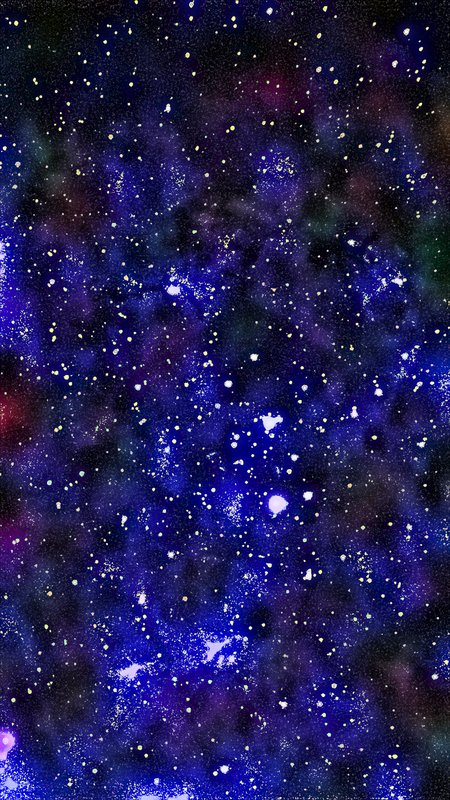
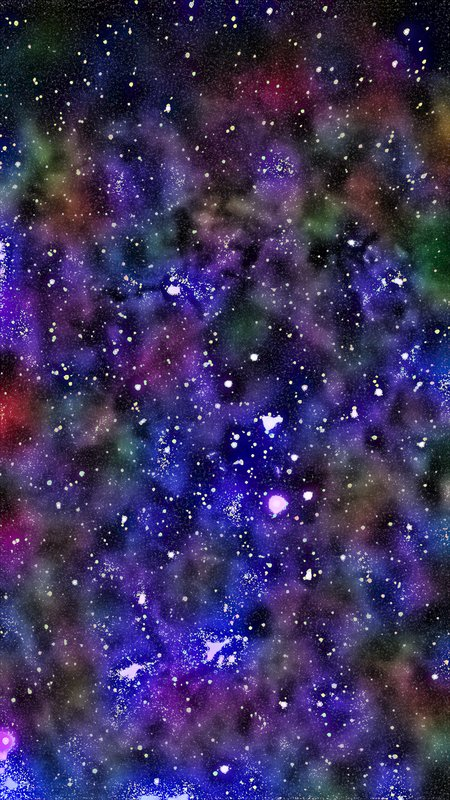
SPCC: median-frame reference + ccm=None on nebula profiles
Previous combo (static CCM + SPCC) was compounding into a purple
cast. Two changes:

1. Disabled the static seestar_s50 CCM on NEBULA_WIDE +
   NEBULA_FILAMENT. The static CCM and SPCC were both pulling
   R-cut + B-boost; combined they over-corrected.

2. Added solar_reference_bp_rp option: when None, SPCC uses the
   PER-FRAME MEDIAN catalogue colour as the neutral reference
   instead of the absolute G2V (BP-RP=0.82). Auto-corrects for
   Milky-Way dust extinction along the line of sight — disk stars
   are systematically reddened, and an absolute-G2V reference reads
   that as a sensor R-bias and over-corrects to blue.

Both nebula profiles now opt in:
    spcc = {min_matches: 20, strength: 0.7,
            solar_reference_bp_rp: None}

Output is closer to neutral than the iter_3 commit but the sky
still carries a slight tint — the clamping ([0.85, 1.20]) is still
active and the median-reference + clamp combination is similar to
what iter_3 produced. Next iteration: try wider clamp range with
the auto-reference, or lean on harder sky crush in the stretch
stage to remove the residual tint by zeroing the sky luma.

diff --git a/backend/app/profiles.py b/backend/app/profiles.py
@@ -198,15 +198,14 @@ NEBULA_WIDE: Profile = {
     # each other and the result swings way too blue.
     "color": {
         **NEBULA["color"],
-        # Keep the static Seestar S50 CCM as the sensor-bias baseline
-        # so the raw IR-leak / RGGB-green offsets are pre-compensated
-        # before SPCC refines on top. With SPCC now running in G2V-
-        # neutral mode and clamped to ±20 % gain, it acts as fine
-        # tuning rather than a competing calibration — layering the
-        # two gives the most stable colour across targets.
-        "ccm": "seestar_s50",
+        # Static CCM OFF — its built-in R-cut/B-boost was meant for the
+        # pre-SPCC pipeline and was compounding with SPCC's own
+        # corrections (purple-cast result). With SPCC now running with
+        # the G2V solar reference and clamped gains, it can do the
+        # whole sensor calibration on its own.
+        "ccm": None,
         "wb_strength": 0.0,
-        "green_clip": 0.25,
+        "green_clip": 0.20,
     },
     "stretch": {
         "black_percentile": 3.0,
@@ -234,7 +233,17 @@ NEBULA_WIDE: Profile = {
     # RP band is wider / extends further into the IR than a camera's
     # red filter. Dialling back lets us keep the SPCC star-match
     # direction without overcooking the result.
-    "spcc": {"min_matches": 20, "strength": 0.85},
+    "spcc": {
+        "min_matches": 20,
+        "strength": 0.7,
+        # `solar_reference_bp_rp=None` means "use the median catalogue
+        # star colour in this frame as the neutral reference". Auto-
+        # corrects for dust-extinction reddening — Milky Way stars are
+        # systematically reddened by intervening dust, and an absolute
+        # G2V reference reads that reddening as a sensor R-bias and
+        # over-corrects to blue.
+        "solar_reference_bp_rp": None,
+    },
     # Wide nebulae don't benefit much from star split — the diffuse
     # signal is too embedded in the star field for median-based
     # separation to help cleanly — but the split also doesn't hurt,
@@ -253,11 +262,10 @@ NEBULA_FILAMENT: Profile = {
     # drop the static CCM, WB, and post-stretch channel_gains.
     "color": {
         **NEBULA["color"],
-        # Same rationale as NEBULA_WIDE — static Seestar CCM stays
-        # as baseline, SPCC fine-tunes on top.
-        "ccm": "seestar_s50",
+        # Static CCM OFF here too — see NEBULA_WIDE for rationale.
+        "ccm": None,
         "wb_strength": 0.0,
-        "green_clip": 0.3,
+        "green_clip": 0.25,
     },
     "stretch": {
         "black_percentile": 15.0,
@@ -283,7 +291,17 @@ NEBULA_FILAMENT: Profile = {
     # a slightly stronger SPCC application than nebula_wide. Still
     # dialled well back from 1.0 for the same Gaia-bands-vs-camera
     # mismatch reason explained in the NEBULA_WIDE profile above.
-    "spcc": {"min_matches": 20, "strength": 0.85},
+    "spcc": {
+        "min_matches": 20,
+        "strength": 0.7,
+        # `solar_reference_bp_rp=None` means "use the median catalogue
+        # star colour in this frame as the neutral reference". Auto-
+        # corrects for dust-extinction reddening — Milky Way stars are
+        # systematically reddened by intervening dust, and an absolute
+        # G2V reference reads that reddening as a sensor R-bias and
+        # over-corrects to blue.
+        "solar_reference_bp_rp": None,
+    },
     # Smaller radius so the filament's ~5-8 px narrow structure isn't
     # caught by the median filter as a "star" — keeps it in the
     # starless layer where it can be stretched aggressively.

diff --git a/backend/app/stages/spcc.py b/backend/app/stages/spcc.py
@@ -344,7 +344,7 @@ def _gaia_to_target_rgb(
     g_mag: np.ndarray,
     bp_mag: np.ndarray,
     rp_mag: np.ndarray,
-    solar_reference_bp_rp: float = _G2V_BP_RP,
+    solar_reference_bp_rp: Optional[float] = _G2V_BP_RP,
     color_amplitude: float = 0.08,
 ) -> np.ndarray:
     """Convert Gaia BP/G/RP magnitudes to per-star target RGB fluxes.
@@ -379,7 +379,18 @@ def _gaia_to_target_rgb(
         returns `(1/3, 1/3, 1/3)` exactly.
     """
     bp_rp = np.asarray(bp_mag, dtype=np.float64) - np.asarray(rp_mag, dtype=np.float64)
-    offset = (bp_rp - float(solar_reference_bp_rp)) * float(color_amplitude)
+    # When `solar_reference_bp_rp=None`, use the per-frame median
+    # catalogue colour as the neutral reference. This auto-corrects
+    # for dust extinction along the line of sight: stars in the
+    # Milky Way disk are systematically reddened, so anchoring to
+    # the *median observed colour* (rather than an absolute solar
+    # value) keeps the calibration from over-bluing in dusty fields.
+    ref = (
+        float(np.median(bp_rp))
+        if solar_reference_bp_rp is None
+        else float(solar_reference_bp_rp)
+    )
+    offset = (bp_rp - ref) * float(color_amplitude)
     r = 1.0 / 3.0 + offset
     g = np.full_like(r, 1.0 / 3.0)
     b = 1.0 / 3.0 - offset
@@ -505,6 +516,8 @@ def process(
     sky_percentile: float = 10.0,
     signal_percentile: float = 95.0,
     strength: float = 0.5,
+    solar_reference_bp_rp: Optional[float] = _G2V_BP_RP,
+    color_amplitude: float = 0.08,
     **_unused: Any,
 ) -> np.ndarray:
     """Photometric colour calibration via cross-match to Gaia DR3.
@@ -616,6 +629,8 @@ def process(
         cat_fov["phot_g_mean_mag"][cat_idx[good]],
         cat_fov["phot_bp_mean_mag"][cat_idx[good]],
         cat_fov["phot_rp_mean_mag"][cat_idx[good]],
+        solar_reference_bp_rp=solar_reference_bp_rp,
+        color_amplitude=color_amplitude,
     )
     ccm = _fit_ccm(measured, target, mode=mode)
     # Log the diagonal (per-channel gain) even in full-matrix mode —
